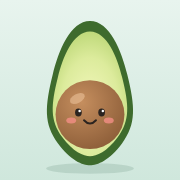
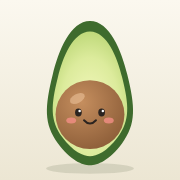
Cambiar la paleta a verdes de aguacate sobre blanco hueso
Colores de la interfaz (claro y oscuro) tomados del icono, con
contraste mínimo 4,5:1 en los pares de texto y fondo. Fondo del icono
en hueso, color de tema del navegador actualizado y nueva versión de
la caché sin conexión para que la app instalada se renueve.

Claude-Session: https://claude.ai/code/session_01DDFRim6RELPtL2qu1mJUCi

diff --git a/styles.css b/styles.css
@@ -1,37 +1,37 @@
 /* Foddy: una columna pensada para el iPhone; tres pestañas (Menú, Platos modelo, Ajustes);
    el menú semanal se apila en tarjetas por día con una barra de proteína animal frente al tope diario. */
 :root {
-  --bg: #F2F5F9;
-  --surface: #FFFFFF;
-  --surface-2: #E8EDF4;
-  --ink: #132033;
-  --muted: #566579;
-  --line: #D3DBE6;
-  --accent: #23529E;
+  --bg: #F6F2E7;
+  --surface: #FFFDF8;
+  --surface-2: #ECE7D8;
+  --ink: #1D2A19;
+  --muted: #5A6550;
+  --line: #DAD4C0;
+  --accent: #3E6B2D;
   --accent-ink: #FFFFFF;
-  --accent-soft: #DCE7F6;
-  --ok: #26704F;
-  --ok-soft: #DDEFE6;
-  --warn: #8F5E0E;
-  --warn-soft: #F6E9CF;
+  --accent-soft: #E3EDC4;
+  --ok: #2B6A3A;
+  --ok-soft: #DCEBD3;
+  --warn: #8A5A0B;
+  --warn-soft: #F4E5C2;
   --bad: #A3302A;
-  --bad-soft: #F6DDDA;
+  --bad-soft: #F5DBD6;
   --font: ui-rounded, 'SF Pro Rounded', -apple-system, BlinkMacSystemFont, 'Segoe UI', system-ui, sans-serif;
   color-scheme: light;
 }
 @media (prefers-color-scheme: dark) {
   :root {
-    --bg: #0E1621;
-    --surface: #162130;
-    --surface-2: #1E2B3C;
-    --ink: #E6ECF4;
-    --muted: #9AA9BC;
-    --line: #2A3A4F;
-    --accent: #86B2F2;
-    --accent-ink: #0B1522;
-    --accent-soft: #1D3354;
-    --ok: #5CC39A;
-    --ok-soft: #173A2E;
+    --bg: #11190F;
+    --surface: #1A2418;
+    --surface-2: #243121;
+    --ink: #F1F0E2;
+    --muted: #A9B79A;
+    --line: #334530;
+    --accent: #B3D983;
+    --accent-ink: #12200D;
+    --accent-soft: #2B4023;
+    --ok: #8FD6A0;
+    --ok-soft: #1C3A27;
     --warn: #E3B765;
     --warn-soft: #3C2F14;
     --bad: #F0928B;

diff --git a/index.html b/index.html
@@ -6,8 +6,8 @@
 <meta http-equiv="Content-Security-Policy" content="default-src 'self'; script-src 'self'; style-src 'self' 'unsafe-inline'; img-src 'self' data: blob:; connect-src https://api.anthropic.com; manifest-src 'self'; worker-src 'self'; base-uri 'none'; form-action 'none'">
 <title>Foddy</title>
 <meta name="description" content="Menús semanales saludables para peques, a partir del menú del cole.">
-<meta name="theme-color" content="#EAF4EF" media="(prefers-color-scheme: light)">
-<meta name="theme-color" content="#0E1621" media="(prefers-color-scheme: dark)">
+<meta name="theme-color" content="#F6F2E7" media="(prefers-color-scheme: light)">
+<meta name="theme-color" content="#11190F" media="(prefers-color-scheme: dark)">
 <meta name="apple-mobile-web-app-capable" content="yes">
 <meta name="mobile-web-app-capable" content="yes">
 <meta name="apple-mobile-web-app-title" content="Foddy">

diff --git a/sw.js b/sw.js
@@ -1,6 +1,6 @@
 /* Foddy: guarda la app en el dispositivo para que abra sin conexión.
    Las llamadas a Anthropic nunca pasan por aquí: solo se tratan archivos de la propia app. */
-const CACHE = 'foddy-v1';
+const CACHE = 'foddy-v2';
 const SHELL = [
   './', 'index.html', 'styles.css', 'app.js', 'manifest.webmanifest',
   'icons/icon.svg', 'icons/icon-180.png', 'icons/icon-192.png', 'icons/icon-512.png'
